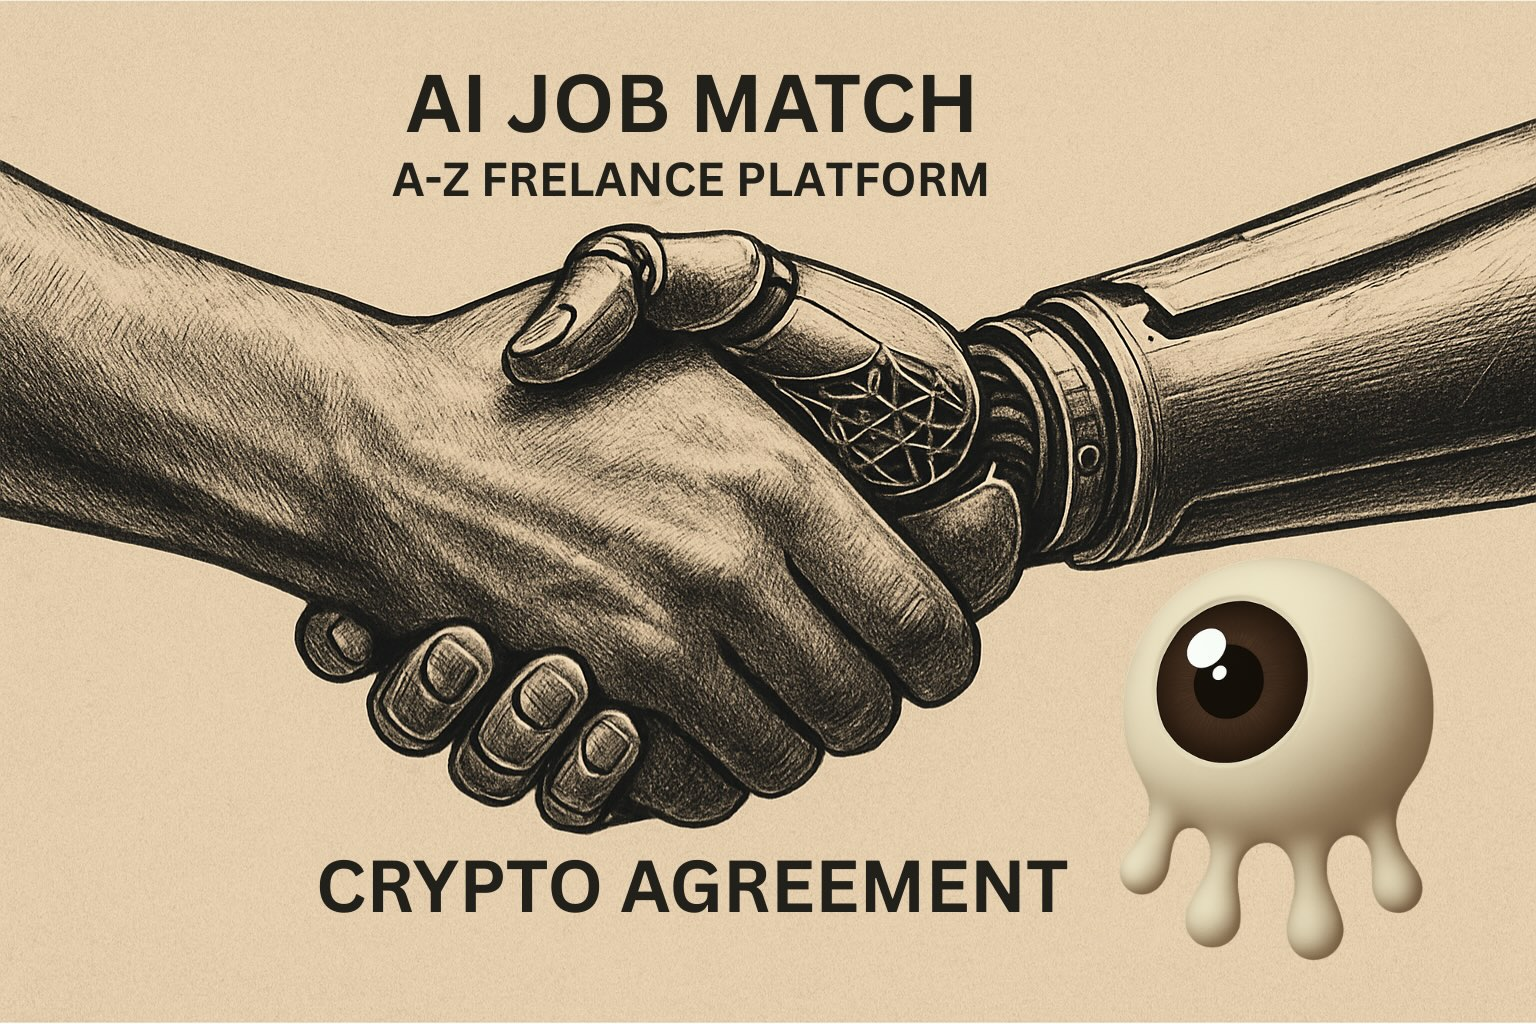
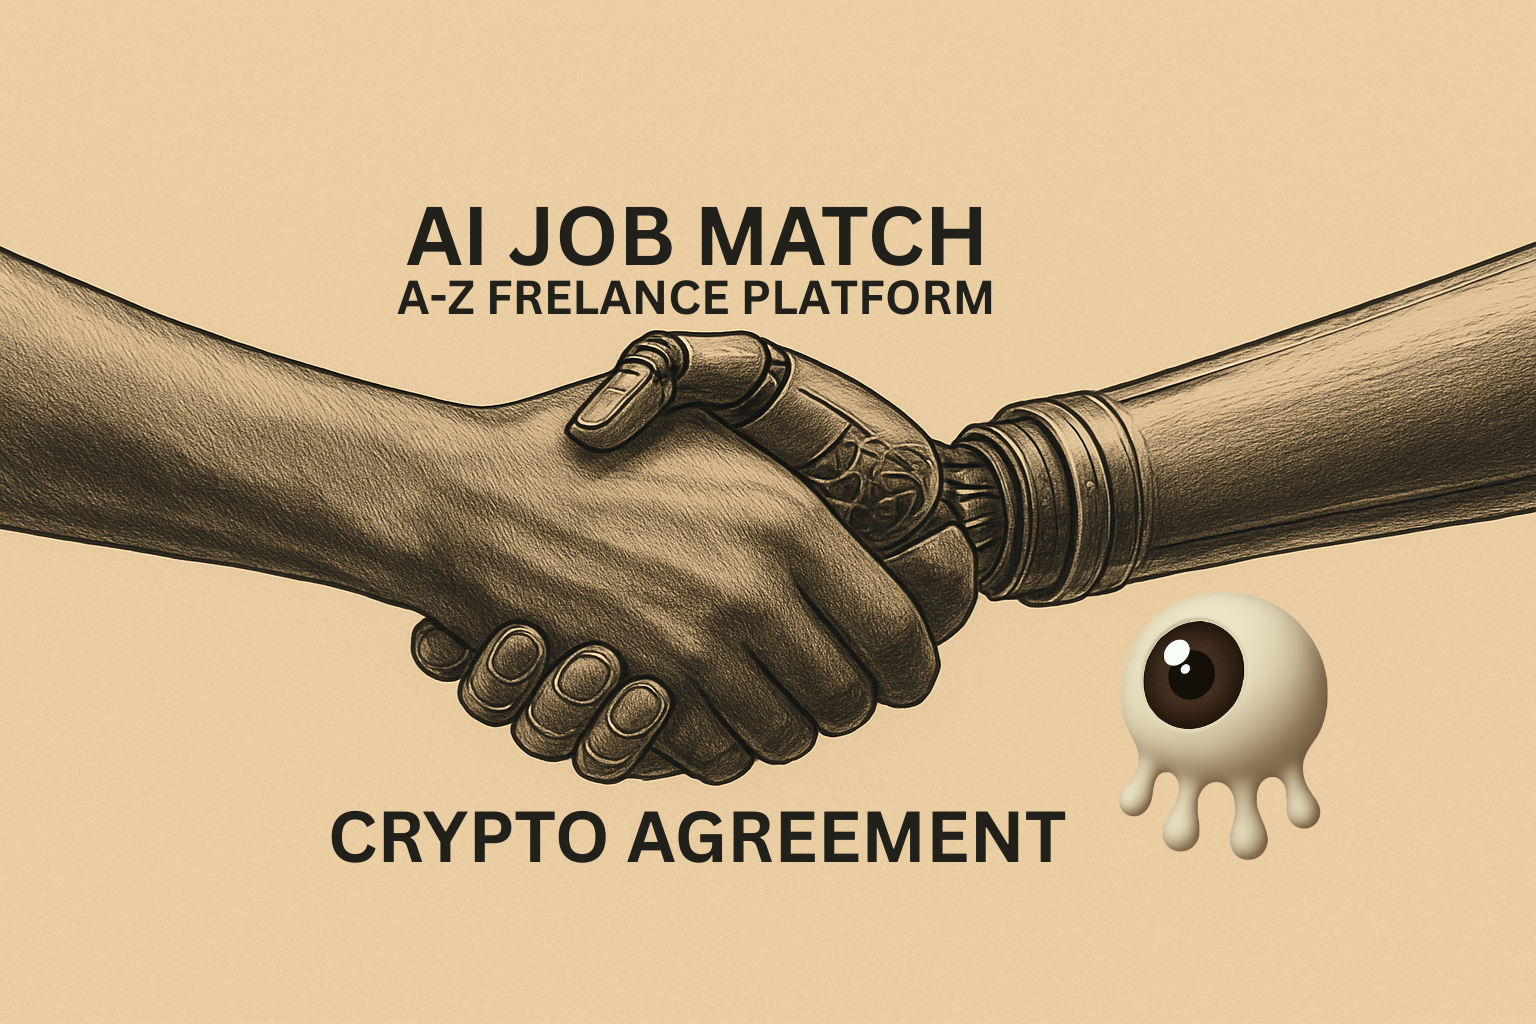
feat: update page title and simplify AI model selection
Update landing page title to include "ICP jobs" for better SEO
Remove redundant model selection condition in AI agent

diff --git a/src/frontend/pages/LandingPage/aiJobMatch.tsx b/src/frontend/pages/LandingPage/aiJobMatch.tsx
@@ -1777,7 +1777,7 @@ const LandingPage = () => {
 
       <Helmet>
         <title>
-          {window.location.hostname} - AI-Powered Job Matching for ICP Ecosystem
+          {window.location.hostname} - AI-Powered Job Matching for ICP Ecosystem ICP jobs
         </title>
         <meta
           name="description"

diff --git a/src/backend/src/ai_agent/updates.rs b/src/backend/src/ai_agent/updates.rs
@@ -40,8 +40,6 @@ pub async fn ask_ai(
 
     let model = if quick {
         "llama-3.1-8b-instant"
-    } else if prompt.split_whitespace().count() > 700 {
-        "llama-3.3-70b-versatile"
     } else {
         "llama-3.3-70b-versatile"
     };
@@ -138,6 +136,7 @@ pub async fn ask_ai(
         response: response_text,
     })
 }
+
 
 #[query]
 fn transform(raw: TransformArgs) -> HttpResponse {